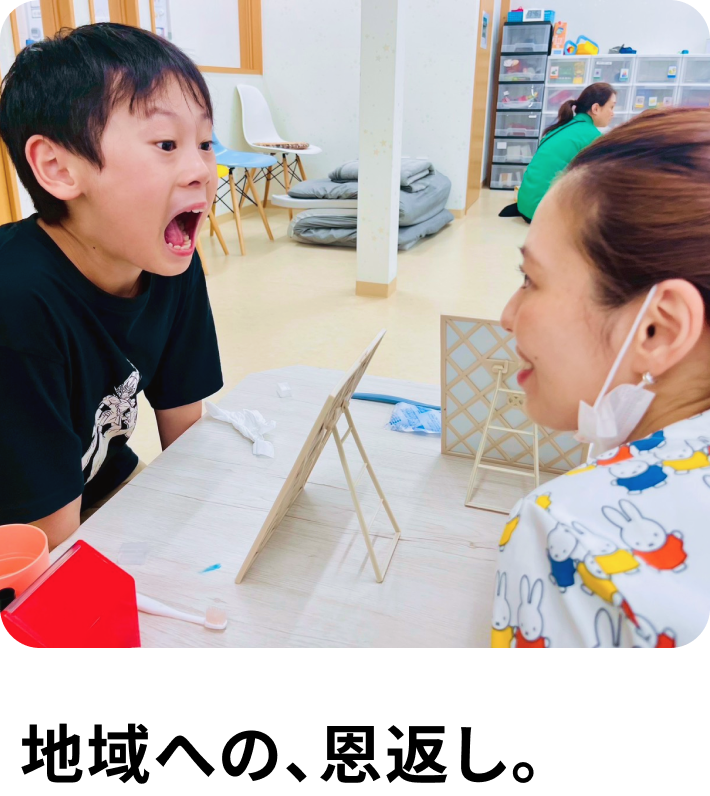
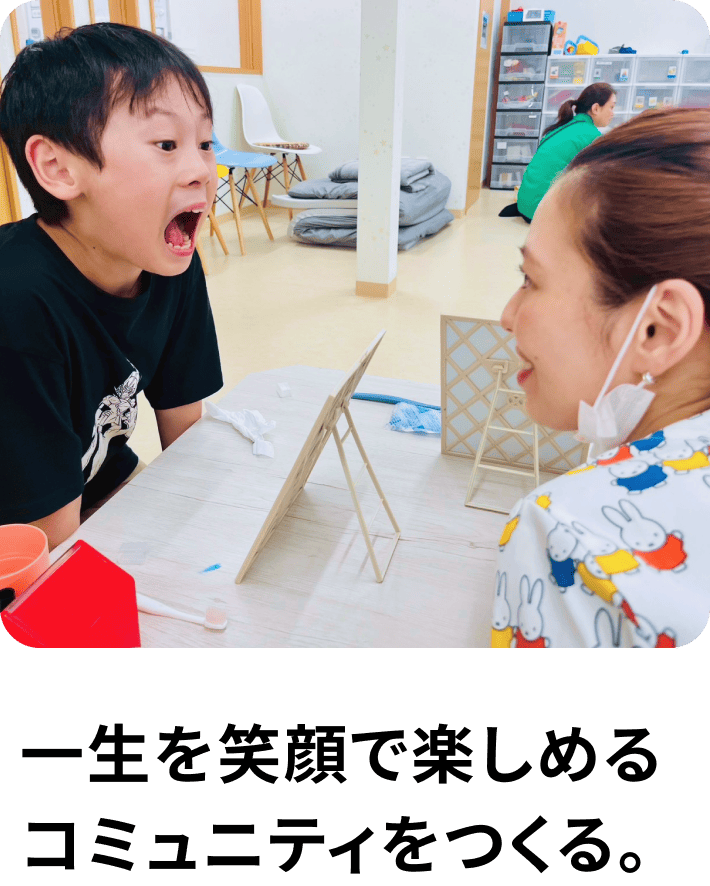
トップページのコンテンツを更新
- メインビジュアルの画像を更新（PC・SP版）
- カルーセルのキャッチコピーを変更
- モーダル内の治療説明文を更新
- トップページのコンセプト文を改訂

🤖 Generated with [Claude Code](https://claude.ai/code)

diff --git a/src/page/home/index.tsx b/src/page/home/index.tsx
@@ -23,31 +23,31 @@ const treatmentLists = [
     id: 1,
     title: '口腔ケア',
     icon: iconOraCare,
-    content: `口腔ケアとは、口の中を清潔に保ち、健康を維持するためのケアのことを指します。歯や歯茎だけでなく、舌や頬の内側、唇など口腔全体のお手入れを行います。\n\n特に高齢者や寝たきりの方、様々な理由により自分で満足に歯みがきができない方にとって、口腔ケアは非常に重要です。適切なケアを行うことで、感染症のリスクを減らし、食事や会話などの生活の質を保つことができます。`,
+    content: `口腔ケアとは、健康を維持するために、お口全体（歯や歯茎だけでなく、舌や頬の内側、唇など）の清潔を保つお手入れです。\n\n「寝たきりだから...」「高齢者だから...」。ご自分やご家族の歯みがきに悩んでいても、だいじょうぶ。\n\n私たち専門家のケアは、虫歯や歯周病を予防し、誤嚥や感染症のリスクを減らします。食事や会話を楽しんで、”自分らしく生き生きと”、毎日を笑顔で暮らしませんか。`,
   },
   {
     id: 2,
     title: '口腔リハビリ',
     icon: iconOralRehabilitation,
-    content: `口腔リハビリとは、口の中や口のまわりの筋肉をきたえて、話す・食べる・飲みこむなどの力を回復したり、維持したりするためのリハビリテーションです。\n\n昔より食べにくくなった、後遺症によりうまく話せなくなった、むせやすくなったり・・・そんなときに役立つのが、この口腔リハビリです。当院では一緒に歌をうたったり、ハーモニカを一緒に吹いたり、楽しいリハビリメニューも揃えています。`,
+    content: `口腔リハビリは、お口の体操です。加齢や後遺症などにより、「最近、食べにくい、むせやすい、うまく話せない…」。\n\nでも、だいじょうぶ。お口や舌の運動、マッサージやストレッチなどで、食べる・飲みこむ・話す力を取り戻しましょう。\n\n私たちは、専門的なケアだけでなく、一緒に歌ったり、一緒にハーモニカを吹いたり、”自分らしく生き生きと”楽しめるリハビリメニューをそろえています。`,
   },
   {
     id: 3,
     title: 'むし歯・歯周病',
     icon: iconCavities,
-    content: `当院では訪問専用の持ち運びできる機械をつかい、ベッドサイドや車いすでも、歯を削る・詰めるなどの虫歯治療や、歯ブラシで取り切れない汚れを落とす歯周病の治療などを、受けることが可能です。歯の状態を確認するレントゲンも、ご自宅で撮影できます。痛みが強い場合には、麻酔も使用できますのでご安心ください。`,
+    content: `「寝たきりだから...」「車いすだから…」通院がむずかしくても、だいじょうぶ。私たちは、訪問専用の機器をそろえています。\n\nご自宅にいながら、歯を削る・詰めるなどの虫歯の治療、歯ブラシでは取り切れない歯と歯茎の間の汚れを落すなどの歯周病の予防や治療が受けられます。\n\n歯の状態を確認するレントゲン撮影も、麻酔も使用できます。安心してご受診ください。`,
   },
   {
     id: 4,
     title: '入れ歯の相談',
     icon: iconDentures,
-    content: `訪問診療で最も多い依頼が入れ歯の修理・作成です。合わない入れ歯を無無理して使っていませんか？通院がむずかしい方でも、ご自宅で無理なく入れ歯の作成・修理・調整などの治療を受けられます。\n\n【入れ歯ができるまでの流れ】\n\n1. お口の診察\n歯科医師が現在のお口の状態を確認します。\n\n2. 型を取る（型取り）\n入れ歯をつくるために、歯ぐきの形に合わせて型を取ります。\n\n3. かみ合わせの確認\n上下の歯（または歯ぐき）がしっかり合うように調整します。\n\n4. 試し入れ（試適）\nできあがった入れ歯の仮のものをはめて、痛みや違和感がないかチェックします。\n\n5. 完成・調整\n問題がなければ、完成した入れ歯をお渡しし、必要に応じて微調整します。`,
+    content: `「入れ歯があわない…」でも、歯医者さんにいけない。だいじょうぶ。入れ歯の作成、修理や調整も、ご自宅でできます。 訪問診療で最も多い依頼は、入れ歯の修理や作成です。 \n\n【入れ歯ができるまでの流れ】\n\n1. お口の診察\n歯科医師がお口の状態を確認します。\n\n2. 型を取る（型取り）\n歯ぐきの形に合わせて型を取ります。 \n\n3. かみあわせをとる（咬合採得）\n患者さんの顎の位置を記録します。  \n\n4. 試し入れ（試適）\n完成前の入れ歯をはめて、痛みや違和感がないかなど最終チェックをします。 \n\n5. 完成・調整\n完成した入れ歯をお渡しします。必要に応じて、随時調整します。 `,
   },
   {
     id: 5,
     title: '抜歯',
     icon: iconToothExtraction,
-    content: `歯がぐらぐらして食べづらい、根っこが膿んでしまった、等どうしても抜歯を選択せざる得ない場合もあります。かかりつけの医師と連携し、 総合的に安全に抜歯ができるように情報共有をいたします。治療中は体調の管理をしながら、無理のない範囲で進めていきます。\n\nただし、ご自宅での処置がむずかしいと判断された場合も、病院歯科や口腔外科へご紹介しますので、ご安心ください。`,
+    content: `「歯がぐらぐらして食べられない…」「歯茎が膿んで痛くて眠れない…」など、どうしても抜歯が必要な場合もあります。\n\nでも、安心してください。私たちは、かかりつけの医師と連携し、 体調の管理をしながら、清潔な器具と総合的な判断のもと、安全に抜歯をします。\n\nご自宅での処置がむずかしい場合は、病院歯科や口腔外科をご紹介します。 `,
   },
 ];
 
@@ -88,23 +88,11 @@ const HomeIndex = () => {
       <div className={styles.home__content}>
         <div className={styles.home__contentText}>
           <p>
-            「もっとこうなれたら…」「いつかやってみたいけど…」そんな思い、ありませんか？
+            「もっとこうなったらいいのに…」「いつかやってみたいけど…」 歯や口について、ひとりで悩んだり、ひとりではためらったり、一度はあきらめたりした、あなたの“希望”を聞かせてください。 
           </p>
-          <p>私たちは、あなたの小さな“希望”を全力で後押しする歯科医院です。</p>
+          <p>歯が一本しかなくても、だいじょうぶ。まだー本のこっています！ うまくのみこめない？だいじょうぶ、リハビリをしてみませんか 。私たちは、計画的で丁寧な診療を通じて、あなたがまだもっている 「なれること」「やれること」を、あなたとともに見つけ出します。 可能性を活かし、“希望”に向かうあなたを、そっと、そして全力で、ささえ続けます。 </p>
           <p>
-            健康な身体は、お口から。
-            <br />
-            あなたのポテンシャルを引き出し、最良の口腔環境を一緒につくります。
-          </p>
-          <p>
-            計画的で丁寧な診療を通じて、自分らしく生き生きと暮らせる毎日をサポート。
-            <br />
-            笑顔で一生を楽しめるコミュニティを目指しています。
-          </p>
-          <p>
-            あなたの希望を叶えるお口づくり、
-            <br />
-            私たちと一緒にはじめてみませんか？
+            ”悠々すこやか”なこころとからだを、 自分らしく生き生きと暮らせる人生を、 一生を笑顔で楽しめるコミュニティを、 ここホワイトロックで、一緒につくりませんか？ 
           </p>
         </div>
         <div className={styles.home__contentImage}>

diff --git a/src/page/home/TopCarousel.tsx b/src/page/home/TopCarousel.tsx
@@ -11,22 +11,22 @@ import mvSp04 from '@/assets/img/top/mv_sp04.png';
 
 const carouselItems = [
   {
-    alt: 'あなたの街の、新しい歯医者。',
+    alt: '”悠々すこやか”に、自分らしく生きる。',
     imagePc: mvPc01.src,
     imageSp: mvSp01.src,
   },
   {
-    alt: '生涯を全うする、よろこびを共に。',
+    alt: 'あなたの”希望”を、私たちが支えます。',
     imagePc: mvPc02.src,
     imageSp: mvSp02.src,
   },
   {
-    alt: '一人一人に合った、計画的な治療を。',
+    alt: '悩みや思いを聞いて、計画的に治療します。',
     imagePc: mvPc03.src,
     imageSp: mvSp03.src,
   },
   {
-    alt: '地域への、恩返し。',
+    alt: '一生を笑顔で楽しめる、コミュニティをつくる。',
     imagePc: mvPc04.src,
     imageSp: mvSp04.src,
   },
